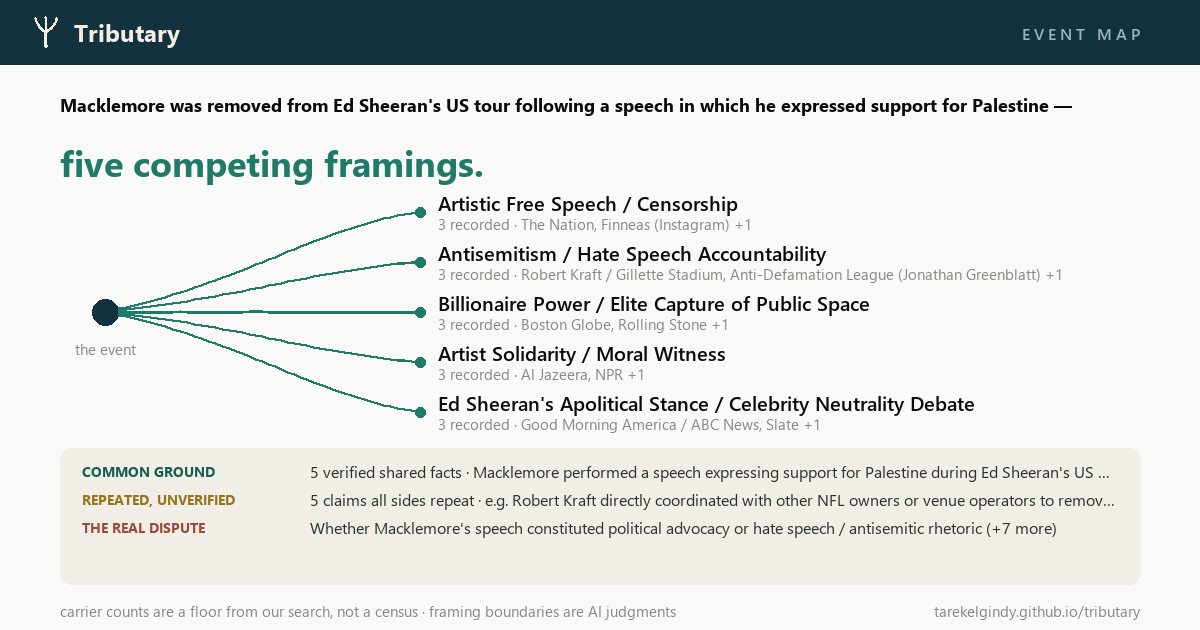
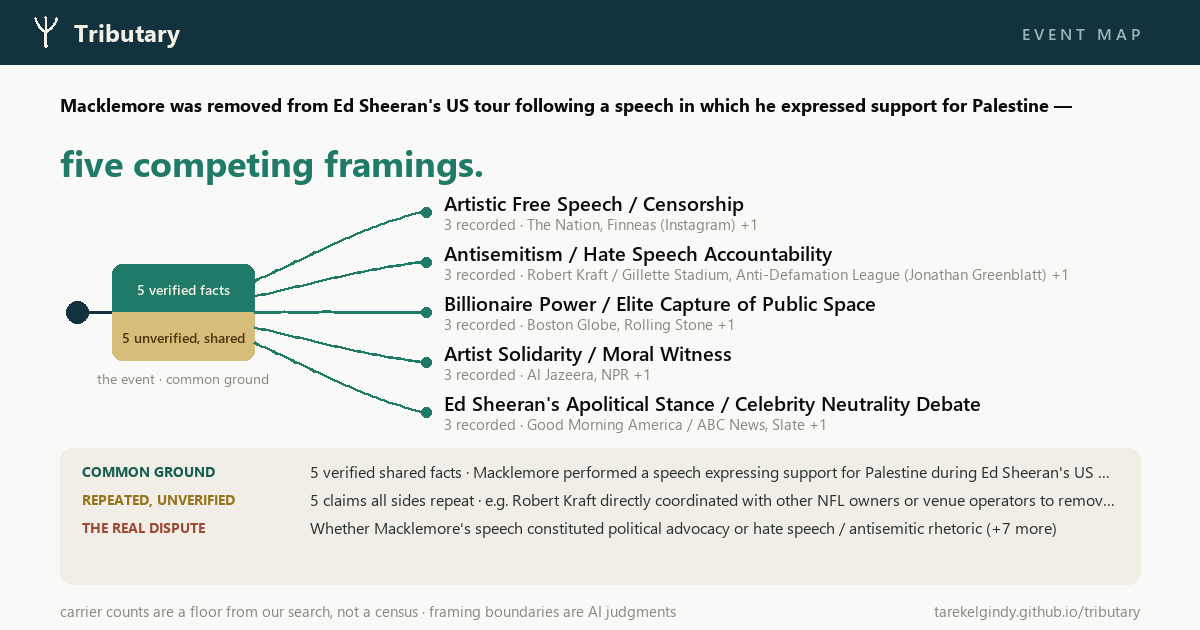
The delta grows a common-ground pool; flow figure joins the share page
The channels now emerge from the shared pool every framing drinks
from - two strata, teal (N verified facts) and amber (N repeated,
unverified) - so the common ground is drawn, not just written. The
share page gets the same figure as inline SVG above the framing
cells, with the full three foundation lists below. Pair-wise
narrative-vs-narrative dispute arcs deliberately NOT drawn: disputes
are recorded as statements, not framing-pair edges - an honest edge
needs a pipeline field first (queued with the prompt batch).

diff --git a/gallery/cards/8e48743e23ca.html b/gallery/cards/8e48743e23ca.html
@@ -36,7 +36,7 @@
   .fq { color: #52514e; font-size: 0.82rem; font-style: italic; margin: 0.15rem 0 0.4rem; }
   .fcar { color: #898781; font-size: 0.8rem; margin-top: 0.35rem; }
   .dots { display: flex; gap: 4px; align-items: center; }
-  .dot { width: 9px; height: 9px; border-radius: 50%; background: #2a78d6; }
+  .dot { width: 9px; height: 9px; border-radius: 50%; background: #1f7a68; }
   .fcount { font-size: 0.78rem; color: #898781; margin-left: 4px; white-space: nowrap; }
   .found { margin-top: 1.1rem; }
   .found h3 { font-size: 0.78rem; font-weight: 700; letter-spacing: 0.06em;
@@ -66,6 +66,36 @@
     <div class="headline">5 competing framings.</div>
     <p class="title">Cyclospora parasites were detected in food products distributed across the United States.</p>
     <div class="agree"><strong>Common ground:</strong> Cyclospora parasites were detected in U.S.-distributed food products, likely linked to a Mexican supplier (Taylor Farms), and that this represents a multi-state public health incident. The contest is over what it <em>means</em>.</div>
+    <svg viewBox="0 0 1080 420" xmlns="http://www.w3.org/2000/svg" font-family="system-ui, -apple-system, Segoe UI, sans-serif" role="img" aria-label="One event splitting into 5 framings, all fed by the shared common-ground pool">
+<circle cx="12" cy="210" r="9" fill="#12333e"/>
+<rect x="24" y="162" width="146" height="48" rx="10" fill="#1f7a68"/>
+<rect x="24" y="210" width="146" height="48" rx="10" fill="#d6bd7a"/>
+<rect x="24" y="198" width="146" height="12" fill="#1f7a68"/>
+<rect x="24" y="210" width="146" height="12" fill="#d6bd7a"/>
+<text x="97.0" y="191" fill="#f3efe4" font-size="14" font-weight="600" text-anchor="middle">3 verified facts</text>
+<text x="97.0" y="239" fill="#4a380e" font-size="14" font-weight="600" text-anchor="middle">5 unverified, shared</text>
+<text x="97.0" y="280" fill="#898781" font-size="13" text-anchor="middle">the event · common ground</text>
+<path d="M 170 179 C 250 149, 300 109, 352 94" fill="none" stroke="#1f7a68" stroke-width="3"/>
+<circle cx="354" cy="94" r="5" fill="#1f7a68"/>
+<text x="372" y="90" fill="#0b0b0b" font-size="19" font-weight="600">Public Health Emergency &amp; Consumer Safety</text>
+<text x="372" y="112" fill="#898781" font-size="14">3 recorded · CDC (Centers for Disease Control and Prevention), TODAY.com +1</text>
+<path d="M 170 195 C 250 180, 300 160, 352 152" fill="none" stroke="#1f7a68" stroke-width="3"/>
+<circle cx="354" cy="152" r="5" fill="#1f7a68"/>
+<text x="372" y="148" fill="#0b0b0b" font-size="19" font-weight="600">Government Accountability &amp; Budget Cuts</text>
+<text x="372" y="170" fill="#898781" font-size="14">3 recorded · KFF Health News, CNBC +1</text>
+<path d="M 170 210 C 250 210, 300 210, 352 210" fill="none" stroke="#1f7a68" stroke-width="3"/>
+<circle cx="354" cy="210" r="5" fill="#1f7a68"/>
+<text x="372" y="206" fill="#0b0b0b" font-size="19" font-weight="600">Supply Chain &amp; Corporate Accountability</text>
+<text x="372" y="228" fill="#898781" font-size="14">3 recorded · Civil Eats, CBS News Texas +1</text>
+<path d="M 170 225 C 250 240, 300 260, 352 268" fill="none" stroke="#1f7a68" stroke-width="3"/>
+<circle cx="354" cy="268" r="5" fill="#1f7a68"/>
+<text x="372" y="264" fill="#0b0b0b" font-size="19" font-weight="600">RFK Jr. / MAHA Political Stress Test</text>
+<text x="372" y="286" fill="#898781" font-size="14">3 recorded · CNBC, STAT News (Susan Mayne, former FDA CFSAN Director) +1</text>
+<path d="M 170 241 C 250 271, 300 311, 352 326" fill="none" stroke="#1f7a68" stroke-width="3"/>
+<circle cx="354" cy="326" r="5" fill="#1f7a68"/>
+<text x="372" y="322" fill="#0b0b0b" font-size="19" font-weight="600">Imported Produce &amp; Cross-Border Food Safety</text>
+<text x="372" y="344" fill="#898781" font-size="14">3 recorded · FDA (Import Alert 24-23), CNBC +1</text>
+</svg>
     <div class="fgrid">
 <div class="fcell">
       <div class="fname">Public Health Emergency &amp; Consumer Safety</div>

diff --git a/gallery/cards/004920783e29.html b/gallery/cards/004920783e29.html
@@ -36,7 +36,7 @@
   .fq { color: #52514e; font-size: 0.82rem; font-style: italic; margin: 0.15rem 0 0.4rem; }
   .fcar { color: #898781; font-size: 0.8rem; margin-top: 0.35rem; }
   .dots { display: flex; gap: 4px; align-items: center; }
-  .dot { width: 9px; height: 9px; border-radius: 50%; background: #2a78d6; }
+  .dot { width: 9px; height: 9px; border-radius: 50%; background: #1f7a68; }
   .fcount { font-size: 0.78rem; color: #898781; margin-left: 4px; white-space: nowrap; }
   .found { margin-top: 1.1rem; }
   .found h3 { font-size: 0.78rem; font-weight: 700; letter-spacing: 0.06em;
@@ -66,6 +66,36 @@
     <div class="headline">5 competing framings.</div>
     <p class="title">Macklemore was removed from Ed Sheeran's US tour following a speech in which he expressed support for Palestine.</p>
     <div class="agree"><strong>Common ground:</strong> Macklemore delivered a pro-Palestine speech, was removed from Sheeran's tour, and that multiple artists subsequently withdrew in response. The contest is over what it <em>means</em>.</div>
+    <svg viewBox="0 0 1080 420" xmlns="http://www.w3.org/2000/svg" font-family="system-ui, -apple-system, Segoe UI, sans-serif" role="img" aria-label="One event splitting into 5 framings, all fed by the shared common-ground pool">
+<circle cx="12" cy="210" r="9" fill="#12333e"/>
+<rect x="24" y="162" width="146" height="48" rx="10" fill="#1f7a68"/>
+<rect x="24" y="210" width="146" height="48" rx="10" fill="#d6bd7a"/>
+<rect x="24" y="198" width="146" height="12" fill="#1f7a68"/>
+<rect x="24" y="210" width="146" height="12" fill="#d6bd7a"/>
+<text x="97.0" y="191" fill="#f3efe4" font-size="14" font-weight="600" text-anchor="middle">5 verified facts</text>
+<text x="97.0" y="239" fill="#4a380e" font-size="14" font-weight="600" text-anchor="middle">5 unverified, shared</text>
+<text x="97.0" y="280" fill="#898781" font-size="13" text-anchor="middle">the event · common ground</text>
+<path d="M 170 179 C 250 149, 300 109, 352 94" fill="none" stroke="#1f7a68" stroke-width="3"/>
+<circle cx="354" cy="94" r="5" fill="#1f7a68"/>
+<text x="372" y="90" fill="#0b0b0b" font-size="19" font-weight="600">Artistic Free Speech / Censorship</text>
+<text x="372" y="112" fill="#898781" font-size="14">3 recorded · The Nation, Finneas (Instagram) +1</text>
+<path d="M 170 195 C 250 180, 300 160, 352 152" fill="none" stroke="#1f7a68" stroke-width="3"/>
+<circle cx="354" cy="152" r="5" fill="#1f7a68"/>
+<text x="372" y="148" fill="#0b0b0b" font-size="19" font-weight="600">Antisemitism / Hate Speech Accountability</text>
+<text x="372" y="170" fill="#898781" font-size="14">3 recorded · Robert Kraft / Gillette Stadium, Anti-Defamation League (Jonath…</text>
+<path d="M 170 210 C 250 210, 300 210, 352 210" fill="none" stroke="#1f7a68" stroke-width="3"/>
+<circle cx="354" cy="210" r="5" fill="#1f7a68"/>
+<text x="372" y="206" fill="#0b0b0b" font-size="19" font-weight="600">Billionaire Power / Elite Capture of Public Space</text>
+<text x="372" y="228" fill="#898781" font-size="14">3 recorded · Boston Globe, Rolling Stone +1</text>
+<path d="M 170 225 C 250 240, 300 260, 352 268" fill="none" stroke="#1f7a68" stroke-width="3"/>
+<circle cx="354" cy="268" r="5" fill="#1f7a68"/>
+<text x="372" y="264" fill="#0b0b0b" font-size="19" font-weight="600">Artist Solidarity / Moral Witness</text>
+<text x="372" y="286" fill="#898781" font-size="14">3 recorded · Al Jazeera, NPR +1</text>
+<path d="M 170 241 C 250 271, 300 311, 352 326" fill="none" stroke="#1f7a68" stroke-width="3"/>
+<circle cx="354" cy="326" r="5" fill="#1f7a68"/>
+<text x="372" y="322" fill="#0b0b0b" font-size="19" font-weight="600">Ed Sheeran's Apolitical Stance / Celebrity Neutrality Deb…</text>
+<text x="372" y="344" fill="#898781" font-size="14">3 recorded · Good Morning America / ABC News, Slate +1</text>
+</svg>
     <div class="fgrid">
 <div class="fcell">
       <div class="fname">Artistic Free Speech / Censorship</div>

diff --git a/gallery/cards/e82aa88b3a7e.html b/gallery/cards/e82aa88b3a7e.html
@@ -36,7 +36,7 @@
   .fq { color: #52514e; font-size: 0.82rem; font-style: italic; margin: 0.15rem 0 0.4rem; }
   .fcar { color: #898781; font-size: 0.8rem; margin-top: 0.35rem; }
   .dots { display: flex; gap: 4px; align-items: center; }
-  .dot { width: 9px; height: 9px; border-radius: 50%; background: #2a78d6; }
+  .dot { width: 9px; height: 9px; border-radius: 50%; background: #1f7a68; }
   .fcount { font-size: 0.78rem; color: #898781; margin-left: 4px; white-space: nowrap; }
   .found { margin-top: 1.1rem; }
   .found h3 { font-size: 0.78rem; font-weight: 700; letter-spacing: 0.06em;
@@ -66,6 +66,7 @@
     <div class="headline">8 competing framings.</div>
     <p class="title">A financial disclosure document reported that Donald Trump received over 1 billion dollars in income or value from cryptocurrency-related ventures.</p>
     <div class="agree"><strong>Common ground:</strong> Trump disclosed over $1 billion in crypto-related income, that he has financial interests in crypto ventures including World Liberty Financial, that the $TRUMP token experienced a major price decline, and that he pardoned Binance's CZ. The contest is over what it <em>means</em>.</div>
+    
     <div class="fgrid">
 <div class="fcell">
       <div class="fname">Corruption &amp; Conflict of Interest</div>

diff --git a/cards.py b/cards.py
@@ -1352,28 +1352,52 @@ def render_event_png(cd, out_path):
     cells = cd["cells"]
 
     if cd["n_framings"] <= 5:
-        # --- the delta ---
+        # --- the delta, fed by the common-ground pool ---
+        # The channels don't spring from a bare dot: they emerge from the
+        # shared pool every framing drinks from, drawn as two strata —
+        # verified facts (teal) and repeated-but-unverified claims (amber).
         k = len(cells)
         cy = 312
-        d.ellipse([92, cy - 13, 118, cy + 13], fill=EV_INK)
-        f_ev = _font(15)
-        d.text((105 - d.textlength("the event", font=f_ev) / 2, cy + 26),
-               "the event", font=f_ev, fill=INK3)
+        d.ellipse([66, cy - 11, 88, cy + 11], fill=EV_INK)
+        d.line([88, cy, 112, cy], fill=EV_INK, width=3)
+        px0, px1 = 112, 254
+        ph = 96
+        n_v, n_u = len(cd["verified"]), len(cd["unverified"])
+        d.rounded_rectangle([px0, cy - ph // 2, px1, cy + ph // 2], radius=10,
+                            fill=EV_TEAL)
+        if n_u:
+            d.rounded_rectangle([px0, cy, px1, cy + ph // 2], radius=10,
+                                fill=(214, 189, 122))
+            d.rectangle([px0, cy - 10, px1, cy + 10], fill=EV_TEAL)
+            d.rectangle([px0, cy, px1, cy + 12], fill=(214, 189, 122))
+        f_pool = _font(14, "semibold")
+        t1 = f"{n_v} verified facts"
+        d.text(((px0 + px1) / 2 - d.textlength(t1, font=f_pool) / 2,
+                cy - ph // 4 - 9), t1, font=f_pool, fill=EV_CREAM)
+        if n_u:
+            t2 = f"{n_u} unverified, shared"
+            d.text(((px0 + px1) / 2 - d.textlength(t2, font=f_pool) / 2,
+                    cy + ph // 4 - 9), t2, font=f_pool, fill=(74, 56, 14))
+        f_ev = _font(14)
+        lbl = "the event · common ground"
+        d.text(((px0 + px1) / 2 - d.textlength(lbl, font=f_ev) / 2,
+                cy + ph // 2 + 8), lbl, font=f_ev, fill=INK3)
+
         spacing = {2: 104, 3: 86, 4: 66}.get(k, 50)
         f_name, f_car = _font(20, "semibold"), _font(15)
         for i, c in enumerate(cells):
             y = cy + (i - (k - 1) / 2) * spacing
-            pts = _bez((118, cy + (i - (k - 1) / 2) * 1.6),
-                       (240, cy + (y - cy) * 0.28),
-                       (315, y - (y - cy) * 0.16), (418, y))
+            y0 = cy + (i - (k - 1) / 2) * (ph / max(k, 2) * 0.8)
+            pts = _bez((px1, y0), (310, y0 + (y - y0) * 0.35),
+                       (365, y - (y - y0) * 0.18), (424, y))
             d.line(pts, fill=EV_TEAL, width=3, joint="curve")
-            d.ellipse([415, y - 5, 425, y + 5], fill=EV_TEAL)
-            d.text((438, y - 23), _ellipsize(d, c["name"], f_name, MR - 438),
+            d.ellipse([421, y - 5, 431, y + 5], fill=EV_TEAL)
+            d.text((444, y - 23), _ellipsize(d, c["name"], f_name, MR - 444),
                    font=f_name, fill=INK1)
             names = ", ".join(c["names"][:2]) + \
                 (f' +{len(c["names"]) - 2}' if len(c["names"]) > 2 else "")
-            d.text((438, y + 1),
-                   _ellipsize(d, f'{c["n"]} recorded · {names}', f_car, MR - 438),
+            d.text((444, y + 1),
+                   _ellipsize(d, f'{c["n"]} recorded · {names}', f_car, MR - 444),
                    font=f_car, fill=INK3)
         _foundation_band(d, cd, ML, MR, 448, 584, dispute_lines=2)
     else:
@@ -1399,6 +1423,57 @@ def render_event_png(cd, out_path):
 
     _event_footer(d, ML, MR)
     img.save(out_path, "PNG")
+
+
+def svg_event_delta(cd):
+    """The delta figure for the share page: common-ground pool (verified
+    stratum teal, unverified stratum amber) feeding one equal channel per
+    framing. Only for events small enough to draw (<=5 framings)."""
+    if cd["n_framings"] > 5:
+        return ""
+    cells = cd["cells"]
+    k = len(cells)
+    cy = 210
+    spacing = {2: 104, 3: 86, 4: 70}.get(k, 58)
+    n_v, n_u = len(cd["verified"]), len(cd["unverified"])
+    px0, px1, ph = 24, 170, 96
+    trunc = lambda s, n: s if len(s) <= n else s[:n - 1].rstrip() + "…"
+    parts = [
+        f'<svg viewBox="0 0 1080 420" xmlns="http://www.w3.org/2000/svg" '
+        f'font-family="system-ui, -apple-system, Segoe UI, sans-serif" '
+        f'role="img" aria-label="One event splitting into {k} framings, all '
+        f'fed by the shared common-ground pool">',
+        f'<circle cx="12" cy="{cy}" r="9" fill="#12333e"/>',
+        f'<rect x="{px0}" y="{cy - ph // 2}" width="{px1 - px0}" height="{ph if not n_u else ph // 2}" rx="10" fill="#1f7a68"/>',
+    ]
+    if n_u:
+        parts += [
+            f'<rect x="{px0}" y="{cy}" width="{px1 - px0}" height="{ph // 2}" rx="10" fill="#d6bd7a"/>',
+            f'<rect x="{px0}" y="{cy - 12}" width="{px1 - px0}" height="12" fill="#1f7a68"/>',
+            f'<rect x="{px0}" y="{cy}" width="{px1 - px0}" height="12" fill="#d6bd7a"/>',
+        ]
+    parts += [
+        f'<text x="{(px0 + px1) / 2}" y="{cy - ph // 4 + 5}" fill="#f3efe4" font-size="14" font-weight="600" text-anchor="middle">{n_v} verified facts</text>',
+    ]
+    if n_u:
+        parts.append(
+            f'<text x="{(px0 + px1) / 2}" y="{cy + ph // 4 + 5}" fill="#4a380e" font-size="14" font-weight="600" text-anchor="middle">{n_u} unverified, shared</text>')
+    parts.append(
+        f'<text x="{(px0 + px1) / 2}" y="{cy + ph // 2 + 22}" fill="#898781" font-size="13" text-anchor="middle">the event · common ground</text>')
+    for i, c in enumerate(cells):
+        y = cy + (i - (k - 1) / 2) * spacing
+        y0 = cy + (i - (k - 1) / 2) * (ph / max(k, 2) * 0.8)
+        names = ", ".join(c["names"][:2])
+        if len(c["names"]) > 2:
+            names += f' +{len(c["names"]) - 2}'
+        parts += [
+            f'<path d="M {px1} {y0:.0f} C 250 {y0 + (y - y0) * 0.35:.0f}, 300 {y - (y - y0) * 0.18:.0f}, 352 {y:.0f}" fill="none" stroke="#1f7a68" stroke-width="3"/>',
+            f'<circle cx="354" cy="{y:.0f}" r="5" fill="#1f7a68"/>',
+            f'<text x="372" y="{y - 4:.0f}" fill="#0b0b0b" font-size="19" font-weight="600">{esc(trunc(c["name"], 58))}</text>',
+            f'<text x="372" y="{y + 18:.0f}" fill="#898781" font-size="14">{c["n"]} recorded · {esc(trunc(names, 64))}</text>',
+        ]
+    parts.append("</svg>")
+    return "\n".join(parts)
 
 
 def render_event_page(cd, out_path):
@@ -1457,7 +1532,7 @@ def render_event_page(cd, out_path):
   .fq {{ color: #52514e; font-size: 0.82rem; font-style: italic; margin: 0.15rem 0 0.4rem; }}
   .fcar {{ color: #898781; font-size: 0.8rem; margin-top: 0.35rem; }}
   .dots {{ display: flex; gap: 4px; align-items: center; }}
-  .dot {{ width: 9px; height: 9px; border-radius: 50%; background: #2a78d6; }}
+  .dot {{ width: 9px; height: 9px; border-radius: 50%; background: #1f7a68; }}
   .fcount {{ font-size: 0.78rem; color: #898781; margin-left: 4px; white-space: nowrap; }}
   .found {{ margin-top: 1.1rem; }}
   .found h3 {{ font-size: 0.78rem; font-weight: 700; letter-spacing: 0.06em;
@@ -1487,6 +1562,7 @@ def render_event_page(cd, out_path):
     <div class="headline">{esc(cd["headline"])}</div>
     <p class="title">{esc(cd["title"])}</p>
     {f'<div class="agree"><strong>Common ground:</strong> {esc(cd["agrees"])} The contest is over what it <em>means</em>.</div>' if cd["agrees"] else ''}
+    {svg_event_delta(cd)}
     <div class="fgrid">
 {cells_html}
     </div>
